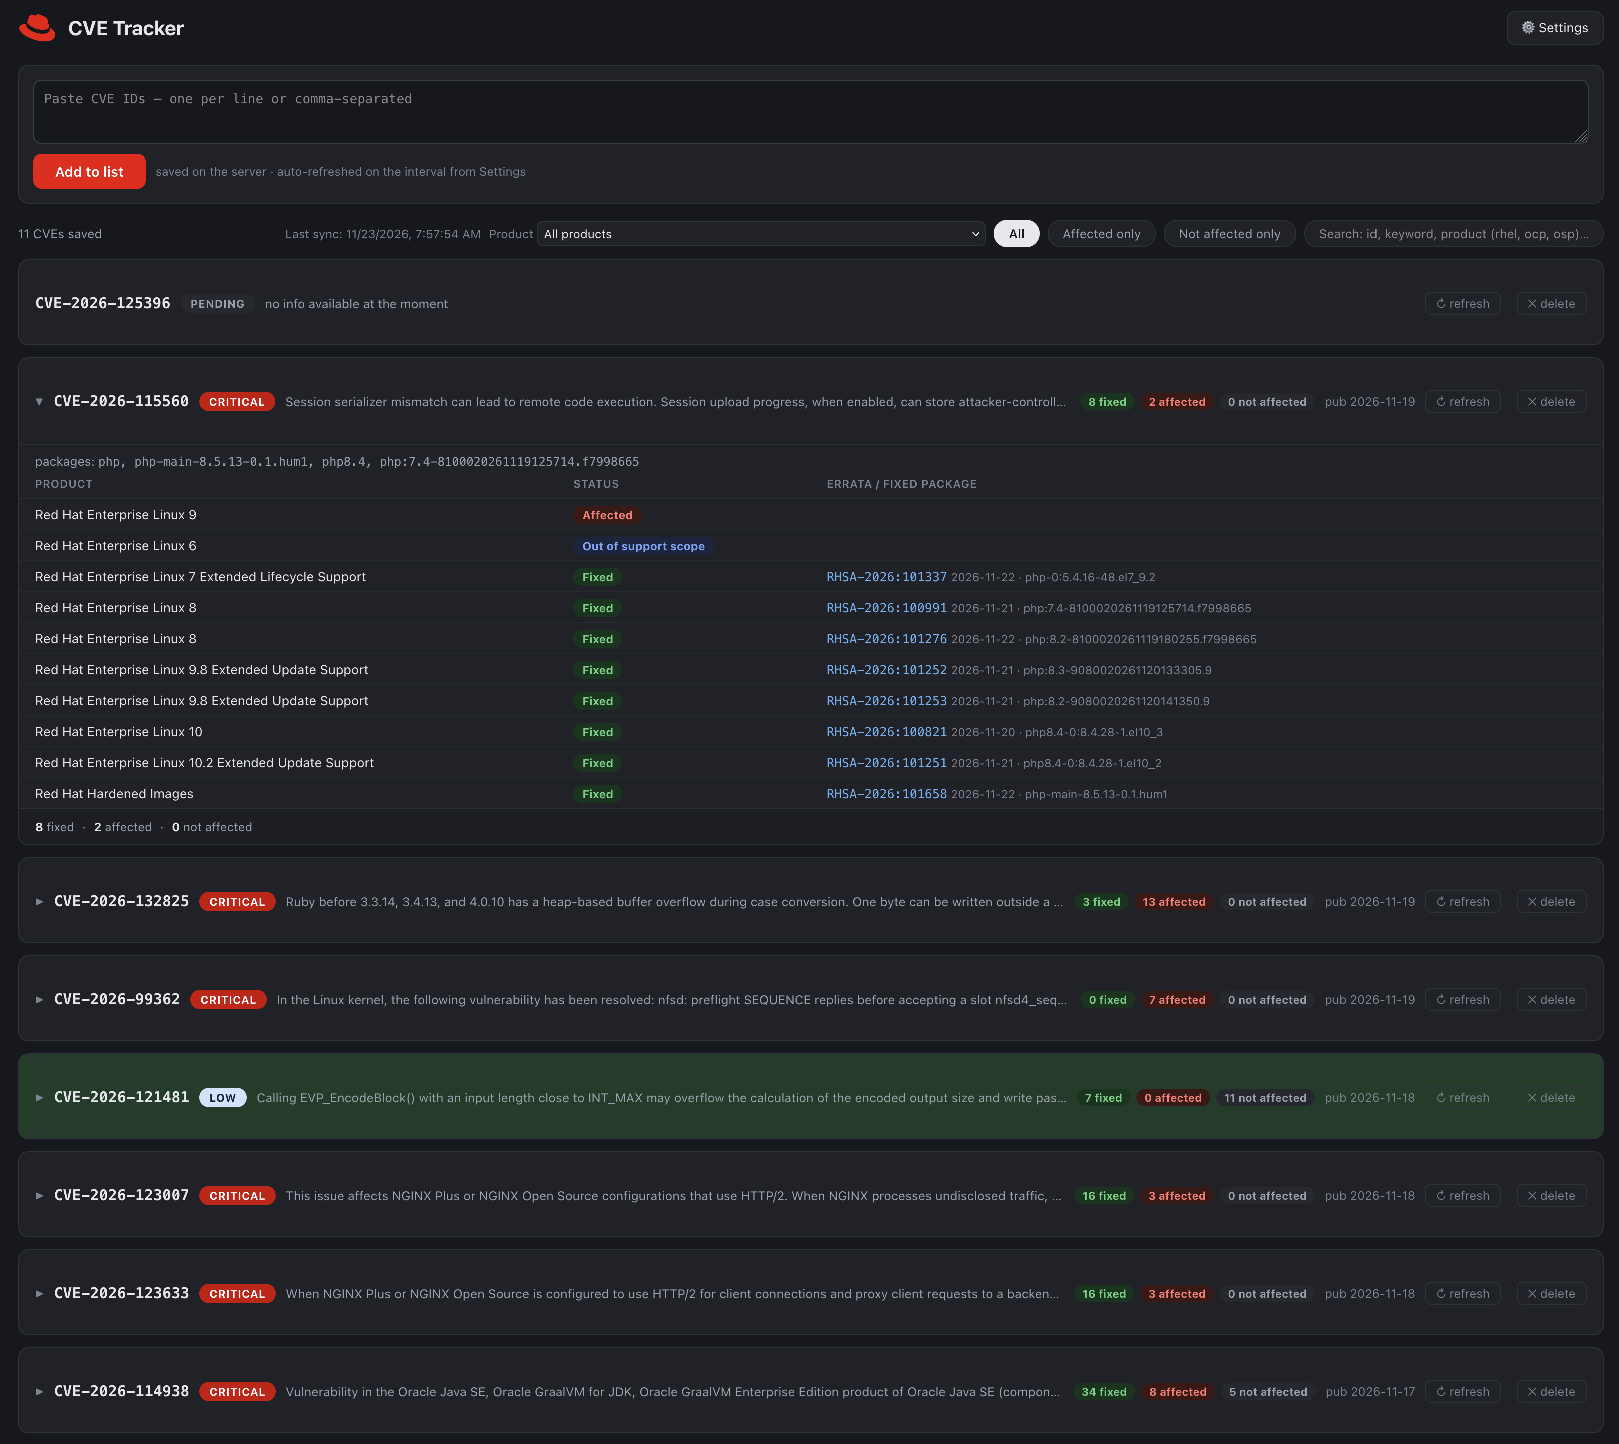
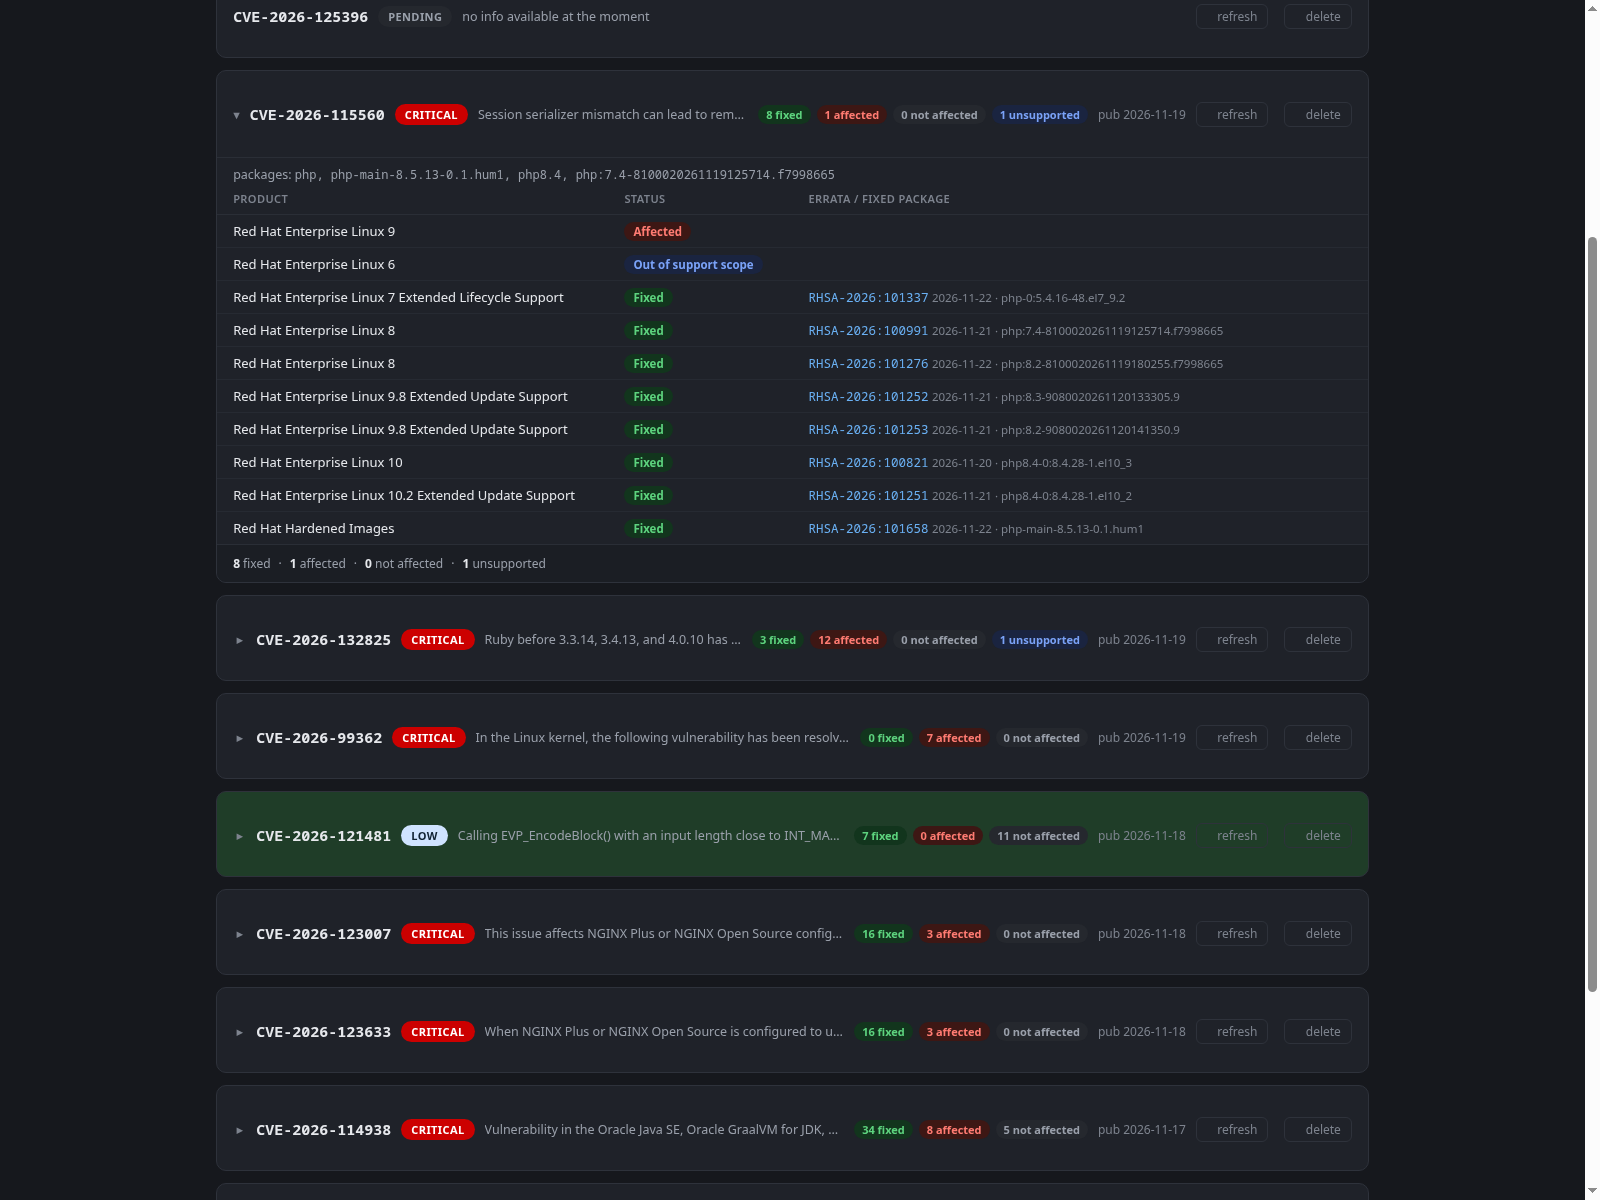
Add unsupported (out-of-scope) category; refresh screenshot

diff --git a/app/server.py b/app/server.py
@@ -48,8 +48,10 @@ STATE_FIX = {  # package_state.fix_state -> (css class, label)
     "Will not fix": ("wontfix", "Will not fix"),
     "Not affected": ("notaffected", "Not affected"),
     "New": ("new", "New"),
+    "Out of support scope": ("oos", "Out of support scope"),
+    "Out of development scope": ("oos", "Out of development scope"),
 }
-STATUS_ORDER = ["affected", "deferred", "wontfix", "new", "fixed", "notaffected"]
+STATUS_ORDER = ["affected", "deferred", "wontfix", "new", "oos", "fixed", "notaffected"]
 
 
 def natkey(s):
@@ -211,7 +213,7 @@ def _refresher():
 
 def normalize(cve, data):
     if not isinstance(data, dict):
-        return {"id": cve, "error": True, "error_msg": "unexpected API payload", "rows": [], "sum": [0, 0, 0]}
+        return {"id": cve, "error": True, "error_msg": "unexpected API payload", "rows": [], "sum": [0, 0, 0, 0]}
     rows, seen = [], {}
     for ar in data.get("affected_release") or []:
         prod = ar.get("product_name", "?")
@@ -237,7 +239,8 @@ def normalize(cve, data):
                              natkey(r["product"])))
     n_fixed = sum(1 for r in rows if r["status"] == "fixed")
     n_na = sum(1 for r in rows if r["status"] == "notaffected")
-    n_aff = len(rows) - n_fixed - n_na
+    n_oos = sum(1 for r in rows if r["status"] == "oos")
+    n_aff = len(rows) - n_fixed - n_na - n_oos
     details = data.get("details") or []
     desc = ""
     if details:
@@ -259,7 +262,7 @@ def normalize(cve, data):
         "cvss3": cvss3,
         "pkgs": pkgs,
         "rows": rows,
-        "sum": [n_fixed, n_aff, n_na],
+        "sum": [n_fixed, n_aff, n_na, n_oos],
     }
 
 
@@ -270,7 +273,7 @@ def api_list():
     for cve in state["order"]:
         data, err = get_data(cve)
         if data is None:
-            out.append({"id": cve, "error": True, "error_msg": err, "rows": [], "sum": [0, 0, 0]})
+            out.append({"id": cve, "error": True, "error_msg": err, "rows": [], "sum": [0, 0, 0, 0]})
         else:
             out.append(normalize(cve, data))
     return out
@@ -411,7 +414,7 @@ class Handler(BaseHTTPRequestHandler):
             # unknown to Red Hat (or unreachable): keep it on the list, the
             # background refresher will pick it up once info becomes available
             return self.send_json({"id": cve, "error": True, "error_msg": err,
-                                   "rows": [], "sum": [0, 0, 0]})
+                                   "rows": [], "sum": [0, 0, 0, 0]})
         self.send_json(normalize(cve, data))
 
     def do_DELETE(self):
@@ -445,6 +448,7 @@ PAGE = r"""<!DOCTYPE html>
     --link:#06c; --fixed-bg:#e3f6e8; --fixed-fg:#1a7f37; --aff-bg:#fdecea; --aff-fg:#c00;
     --wf-bg:#efe6f7; --wf-fg:#7b3fa0; --def-bg:#fff4d6; --def-fg:#9a6b00;
     --na-bg:#f0f1f3; --na-fg:#667; --new-bg:#e8eef9; --new-fg:#3b5bdb; --clear-bg:#c9ecd3;
+    --oos-bg:#e8eef9; --oos-fg:#3b5bdb;
   }
   [data-theme="dark"] {
     --bg:#16181d; --card:#1f2229; --border:#2e323b; --border2:#2a2e36; --text:#e6e8ec;
@@ -452,6 +456,7 @@ PAGE = r"""<!DOCTYPE html>
     --link:#6ab0f3; --fixed-bg:#12351d; --fixed-fg:#5dd37e; --aff-bg:#3d1714; --aff-fg:#ff7b72;
     --wf-bg:#2d1b3d; --wf-fg:#c792ea; --def-bg:#3a2e10; --def-fg:#e3b341;
     --na-bg:#25282e; --na-fg:#9aa0ab; --new-bg:#1a2440; --new-fg:#7aa2f7; --clear-bg:#1f3d28;
+    --oos-bg:#1a2440; --oos-fg:#7aa2f7;
   }
   * { box-sizing:border-box; }
   body { font-family:-apple-system,'Segoe UI',Roboto,sans-serif; color:var(--text); background:var(--bg); margin:0; padding:24px; transition:background .2s,color .2s; }
@@ -498,6 +503,7 @@ PAGE = r"""<!DOCTYPE html>
   .cb.f { background:var(--fixed-bg); color:var(--fixed-fg); }
   .cb.a { background:var(--aff-bg); color:var(--aff-fg); }
   .cb.n { background:var(--na-bg); color:var(--na-fg); }
+  .cb.o { background:var(--oos-bg); color:var(--oos-fg); }
   .meta { color:var(--faint); font-size:12px; white-space:nowrap; }
   .del { border:1px solid var(--border); background:transparent; color:var(--faint); border-radius:6px; padding:3px 10px; font-size:12px; cursor:pointer; }
   .del:hover { color:#e5484d; border-color:#e5484d; }
@@ -516,6 +522,7 @@ PAGE = r"""<!DOCTYPE html>
   .st.wontfix { background:var(--wf-bg); color:var(--wf-fg); }
   .st.deferred { background:var(--def-bg); color:var(--def-fg); }
   .st.new { background:var(--new-bg); color:var(--new-fg); }
+  .st.oos { background:var(--oos-bg); color:var(--oos-fg); }
   .st.notaffected { background:var(--na-bg); color:var(--na-fg); }
   .err a { font-family:ui-monospace,Menlo,monospace; color:var(--link); text-decoration:none; font-size:12.5px; }
   .err a:hover { text-decoration:underline; }
@@ -646,7 +653,7 @@ function rowMatch(r){
   if (PRODUCT && r.product !== PRODUCT) return false;
   if (FILTER === "all") return true;
   if (FILTER === "notaffected") return r.status === "notaffected";
-  return r.status !== "notaffected";
+  return r.status !== "notaffected" && r.status !== "oos";
 }
 function rebuildProductOptions(){
   const sel = document.getElementById("prodsel");
@@ -682,14 +689,14 @@ function card(d){
       <span class="cid"><a href="https://access.redhat.com/security/cve/${esc(id)}" target="_blank" rel="noopener" onclick="event.stopPropagation()">${esc(id)}</a></span>
       <span class="sev ${esc(d.sev)}">${esc(d.sev)}</span>
       <span class="one">${esc(d.desc)}</span>
-      <span class="cbadges"><span class="cb f">${d.sum[0]} fixed</span><span class="cb a">${d.sum[1]} affected</span><span class="cb n">${d.sum[2]} not affected</span></span>
+      <span class="cbadges"><span class="cb f">${d.sum[0]} fixed</span><span class="cb a">${d.sum[1]} affected</span><span class="cb n">${d.sum[2]} not affected</span>${d.sum[3]?`<span class="cb o">${d.sum[3]} unsupported</span>`:""}</span>
       <span class="meta">pub ${esc(d.pub)}${esc(cvss)}</span>
       <button class="ref" onclick="ref(event,'${id}')">↻ refresh</button><button class="del" onclick="del(event,'${id}')">✕ delete</button>
     </div>
     <div class="cbody" style="${open?"":"display:none"}">
       ${d.pkgs.length?`<div class="pkg">packages: <span style="font-family:ui-monospace,Menlo,monospace;font-size:12px">${d.pkgs.map(esc).join(", ")}</span></div>`:""}
       <table><tr><th style="width:34%">Product</th><th style="width:16%">Status</th><th>Errata / fixed package</th></tr>${rows}</table>
-      <div class="summary"><span><b>${d.sum[0]}</b> fixed</span><span>·</span><span><b>${d.sum[1]}</b> affected</span><span>·</span><span><b>${d.sum[2]}</b> not affected</span></div>
+      <div class="summary"><span><b>${d.sum[0]}</b> fixed</span><span>·</span><span><b>${d.sum[1]}</b> affected</span><span>·</span><span><b>${d.sum[2]}</b> not affected</span>${d.sum[3]?`<span>·</span><span><b>${d.sum[3]}</b> unsupported</span>`:""}</div>
     </div>
   </div>`;
 }
